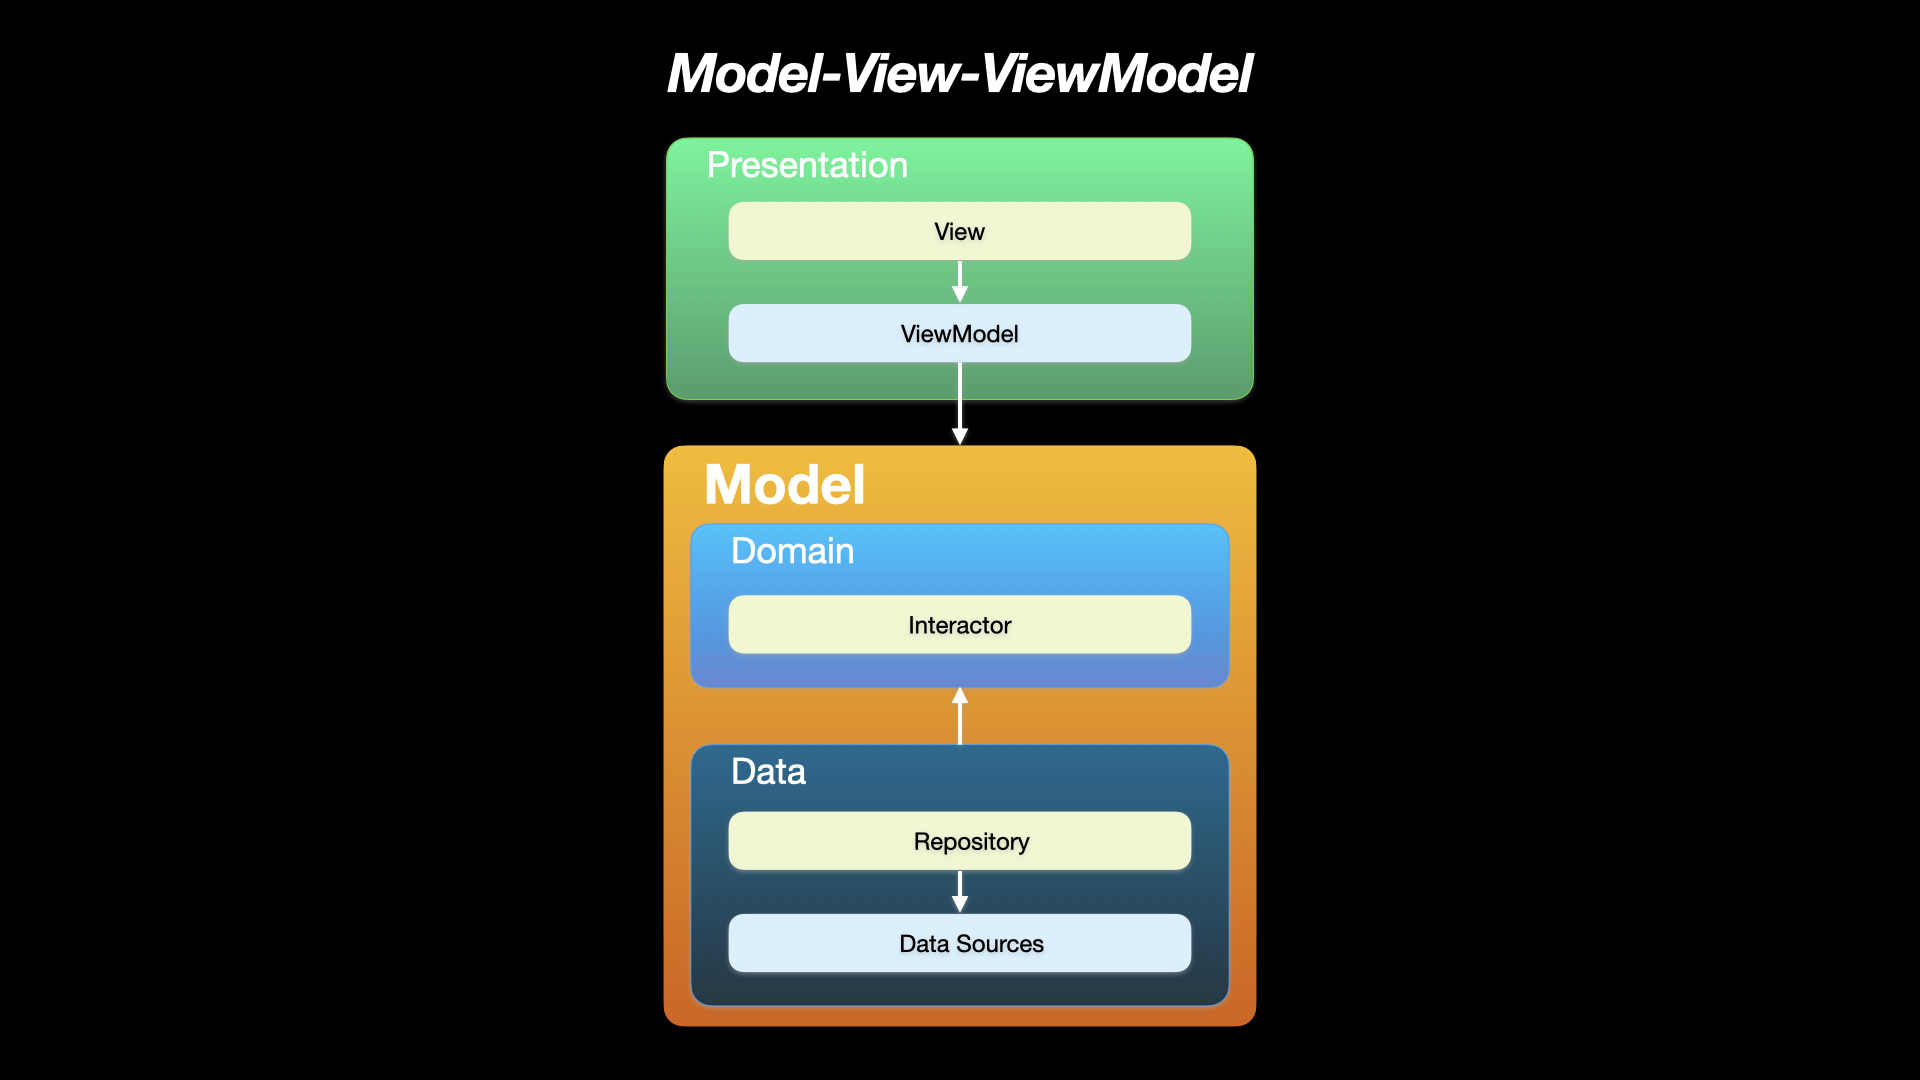
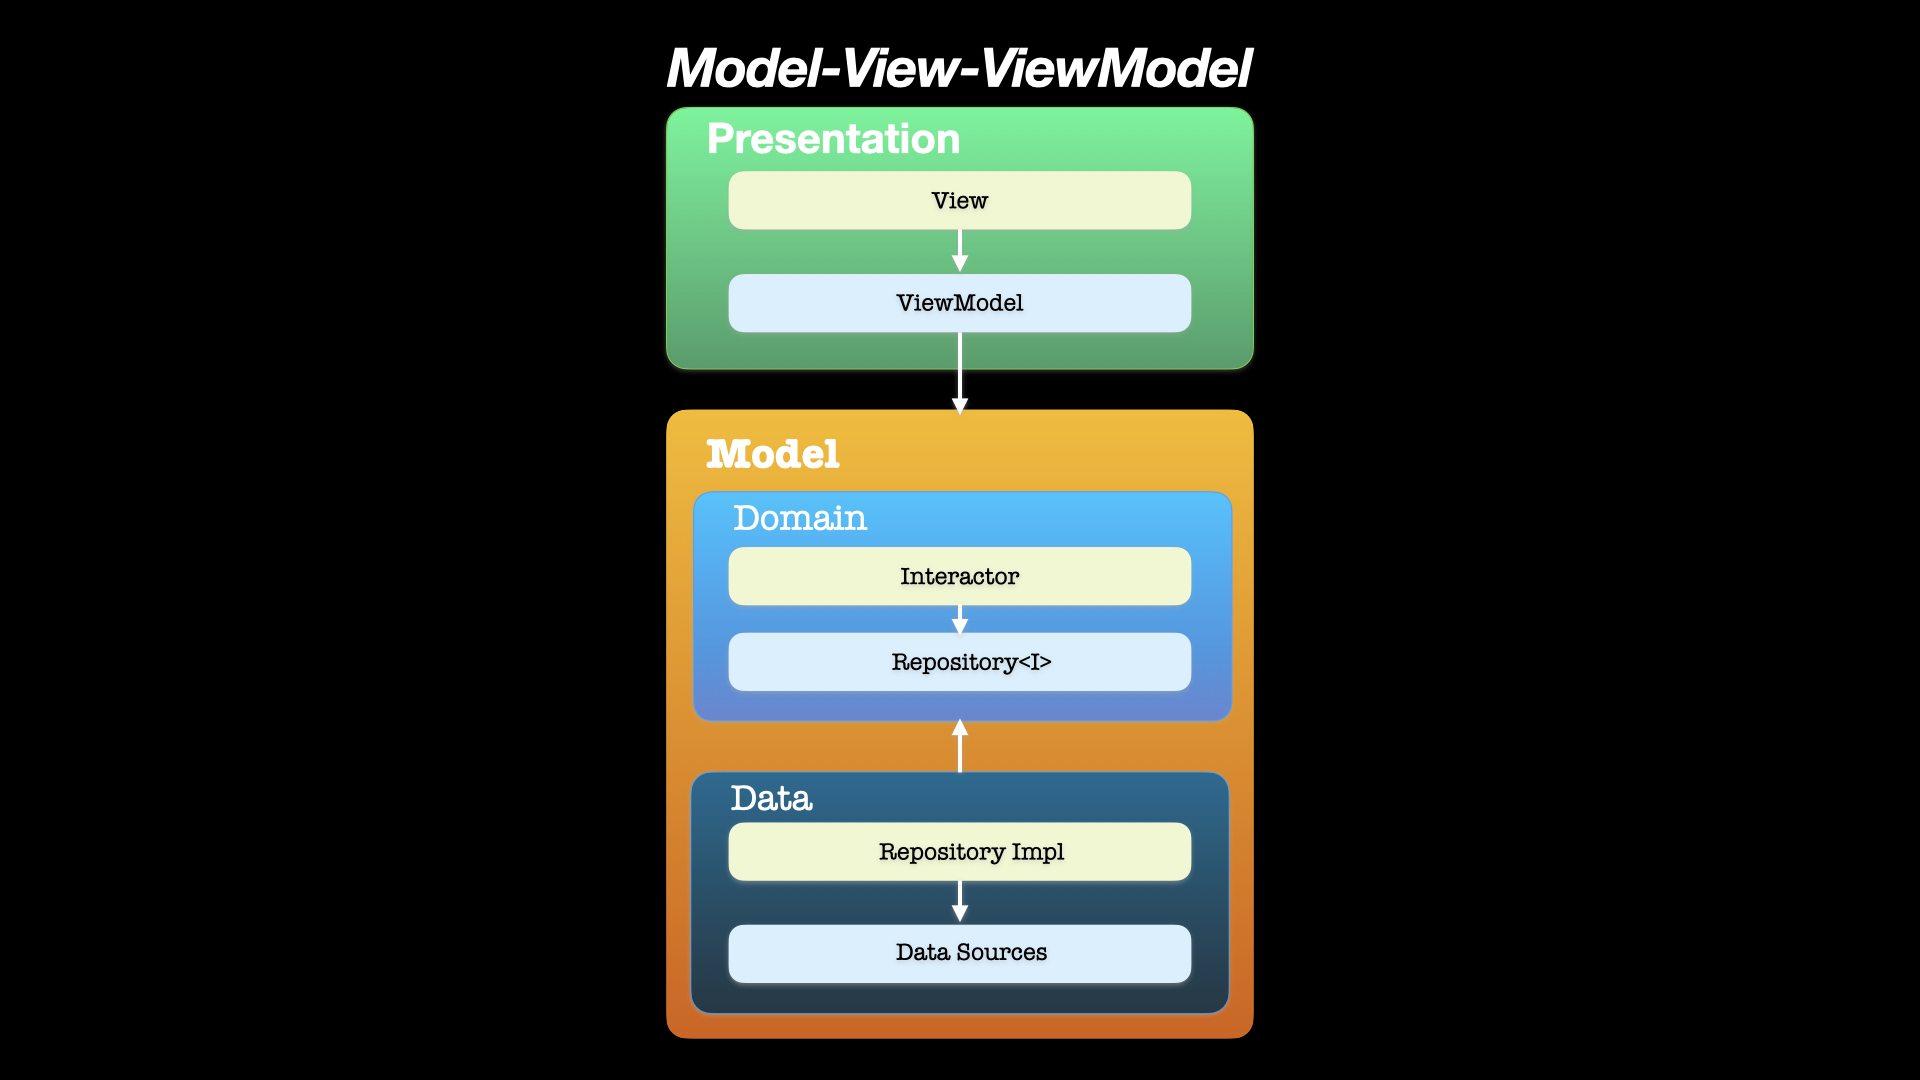
2.1.0(21) (#44)
* refactoring

* upgrade firebase-analytics

* add error dialog in AddCityDialogFragment.kt

* changed background and add search_bar.xml

* add padding bottom to the country list

* update room database version

* fix CI/CD

* fix CI/CD

* Upgrade gradle dependencies

* merged conflicts and deleted ShadowedLinearLayout.kt

* Implement loading photo via inputStream

* Refactor AddCityDialogFragment.kt

* fix android_ci.yml

* replaced deprecated onBackPressed with new approach

* catching runtime exception

* increment fragment_version

* replaced deprecated onBackPressed method

* replaced deprecated onBackPressed method

* upgrade koin and okhttp version

* upgrade versions, dependencies and README.md

* set java 17 fro data layer

* upgrade versions, dependencies and README.md

* set java-version: 17 for CI/CD

* move screenshots in the README.md

* merge conflicts

* merge conflicts

* set org.gradle.unsafe.configuration-cache-problems=warn to gradle.properties

* upgrade koin, gradle and README.md

* upgrade activity, refactor data layer and add architecture diagram to README.md

* Increment version and add stand with Ukraine banner to the README.md

* Increment version and change architecture image

Changed region(s): [[0.3438, 0.0306, 0.6562, 0.9778]]

diff --git a/domain/src/main/java/ua/turskyi/domain/repository/CountriesRepository.kt b/domain/src/main/java/ua/turskyi/domain/repository/CountriesRepository.kt
@@ -11,53 +11,53 @@ interface CountriesRepository {
         id: Int,
         filePath: String,
         onSuccess: (List<CountryModel>) -> Unit,
-        onError: (Exception) -> Unit
+        onError: (Exception) -> Unit,
     )
 
     suspend fun markAsVisited(
         country: CountryModel,
         onSuccess: () -> Unit,
-        onError: (Exception) -> Unit
+        onError: (Exception) -> Unit,
     )
 
     suspend fun setVisitedModelCountriesFromDb(
         onSuccess: (List<CountryModel>) -> Unit,
-        onError: (Exception) -> Unit
+        onError: (Exception) -> Unit,
     )
 
     suspend fun setCities(
         onSuccess: (List<CityModel>) -> Unit,
-        onError: (Exception) -> Unit
+        onError: (Exception) -> Unit,
     )
 
     suspend fun setCountNotVisitedCountries(
         onSuccess: (Int) -> Unit,
-        onError: (Exception) -> Unit
+        onError: (Exception) -> Unit,
     )
 
     suspend fun removeFromVisited(
         country: CountryModel,
         onSuccess: () -> Unit,
-        onError: (Exception) -> Unit
+        onError: (Exception) -> Unit,
     )
 
     suspend fun removeCity(
         city: CityModel,
         onSuccess: () -> Unit,
-        onError: (Exception) -> Unit
+        onError: (Exception) -> Unit,
     )
 
     suspend fun insertCity(
         city: CityModel,
         onSuccess: () -> Unit,
-        onError: (Exception) -> Unit
+        onError: (Exception) -> Unit,
     )
 
     suspend fun setCountriesByRange(
         to: Int,
         from: Int,
         onSuccess: (List<CountryModel>) -> Unit,
-        onError: (Exception) -> Unit
+        onError: (Exception) -> Unit,
     )
 
     suspend fun loadCountriesByNameAndRange(
@@ -65,6 +65,6 @@ interface CountriesRepository {
         limit: Int,
         offset: Int,
         onSuccess: (List<CountryModel>) -> Unit,
-        onError: (Exception) -> Unit
+        onError: (Exception) -> Unit,
     )
 }
